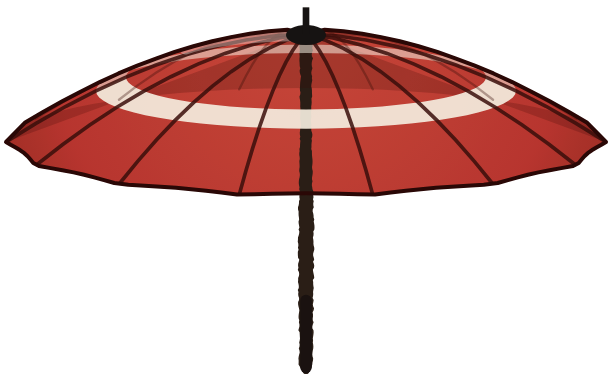
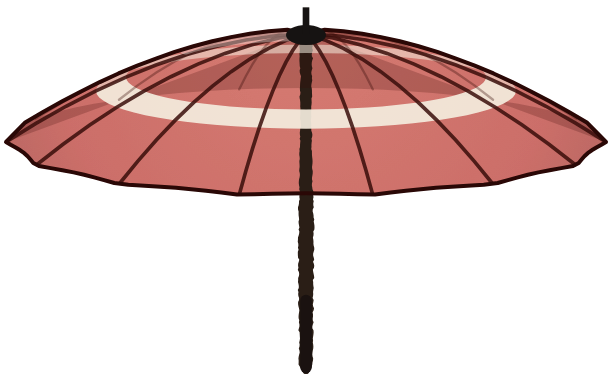
bbn-test: translucent oil-paper umbrella, recentred scene
Claude-Session: https://claude.ai/code/session_01WK1sLcUkQk5v43cBpkAh9W

Changed region(s): [[0.0, 0.0873, 0.9935, 0.5238]]

diff --git a/bbn-test/video/src/inksheet.ts b/bbn-test/video/src/inksheet.ts
@@ -20,13 +20,13 @@ const tree = layer(A, 'tree', 1640, 900, 0.0042 * 1.6, { mul: true, order: -20 }
 // contact shadows
 const shadow = (x: number, z: number, rx: number) => { const s = new THREE.Mesh(new THREE.CircleGeometry(rx, 32), new THREE.MeshBasicMaterial({ color: '#161312', transparent: true, opacity: 0.22, depthWrite: false })); s.rotation.x = -Math.PI / 2; s.scale.y = 0.4; s.position.set(x, 0.01, z); s.renderOrder = -10; scene.add(s) }
 const SW = 0.5   // samurai S in world units
-const sam = samurai(A, SW, 10); sam.root.position.set(-0.7, 1.58 * SW, 0); scene.add(sam.root); shadow(-0.7, 0, SW * 0.95)
+const sam = samurai(A, SW, 10); sam.root.position.set(-0.6, 1.58 * SW, 0); scene.add(sam.root); shadow(-0.6, 0, SW * 0.95)
 // umbrella: grip pinned to the samurai's right hand
 const handR: [number, number] = [1.05, 0.7]
 sam.pose({ handR, eyes: 'up' })
 const um = layer(A, 'umbrella', 960, 860, SW / 300 * 2.6, { order: 6 }); scene.add(um.g)
-um.g.position.set(-0.7 + handR[0] * SW, 1.58 * SW + handR[1] * SW, 0.05)
-const cat = mochi(A, SW, 12); cat.root.position.set(1.15, 0, 0.2); cat.show('cat_sit_tail2'); scene.add(cat.root); shadow(1.1, 0.2, 0.45)
+um.g.position.set(-0.6 + handR[0] * SW, 1.58 * SW + handR[1] * SW, 0.05)
+const cat = mochi(A, SW, 12); cat.root.position.set(0.45, 0, 0.2); cat.show('cat_sit_tail2'); scene.add(cat.root); shadow(0.4, 0.2, 0.45)
 // paper treatment on top, like the kit's final composite
 const ov = new THREE.Scene(), oc = new THREE.OrthographicCamera(-1, 1, 1, -1, 0, 1)
 const quad = (t: THREE.Texture, blending: THREE.Blending, op: number) => { const m = new THREE.Mesh(new THREE.PlaneGeometry(2, 2), new THREE.MeshBasicMaterial({ map: t, transparent: true, opacity: op, blending, depthTest: false })); ov.add(m) }
